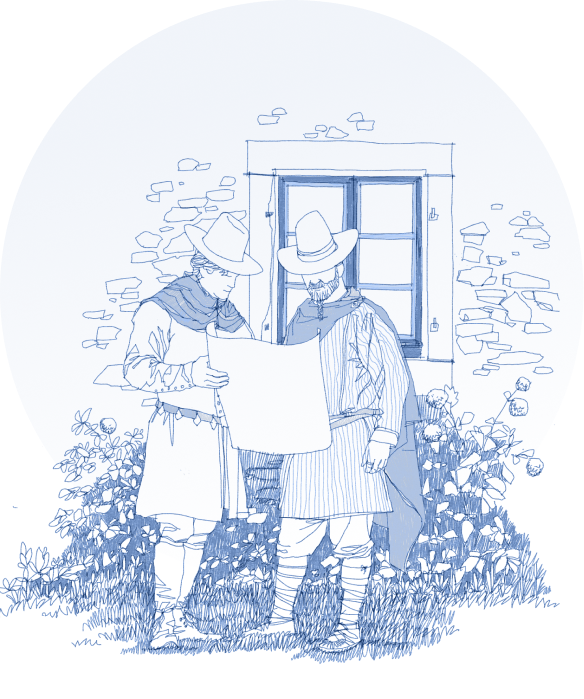
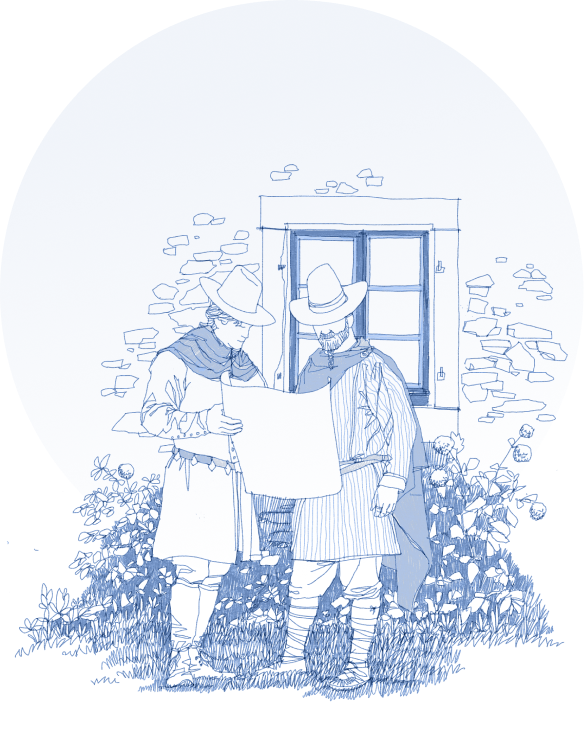
pic

diff --git a/web/index.html b/web/index.html
@@ -68,8 +68,8 @@
         </section>
         <section class="section page__item text_item serv_item mob_animate text_animate" id="section3" data-anchor="service">
             <div class="container">
-                <div class="page__item_text">
-                    <div class="img_girls gc_animate desktop">
+                <div class="page__item_text service_layout">
+                    <div class="img_girls gc_animate">
                         <img src="img/boys.png" alt="">
                     </div>
                     <div class="container_text ge_animate">

diff --git a/web/css/main.css b/web/css/main.css
@@ -2273,6 +2273,10 @@ body {
 	display: none;
 }
 
+.service_layout {
+	flex-direction: column-reverse;
+}
+
 }
 
 @media (max-width: 640px) {
@@ -2458,6 +2462,10 @@ body {
 
 .text_item {
 	margin-bottom: 0;
+}
+
+.service_layout {
+	flex-direction: column-reverse;
 }
 
 }
